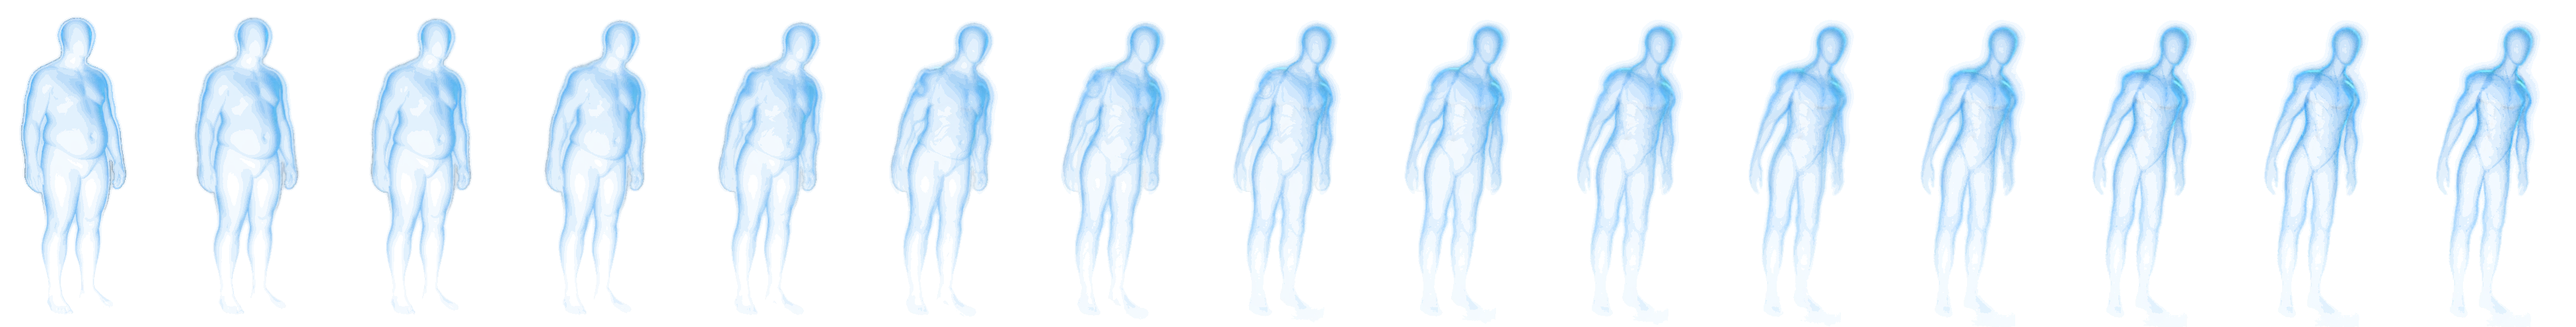
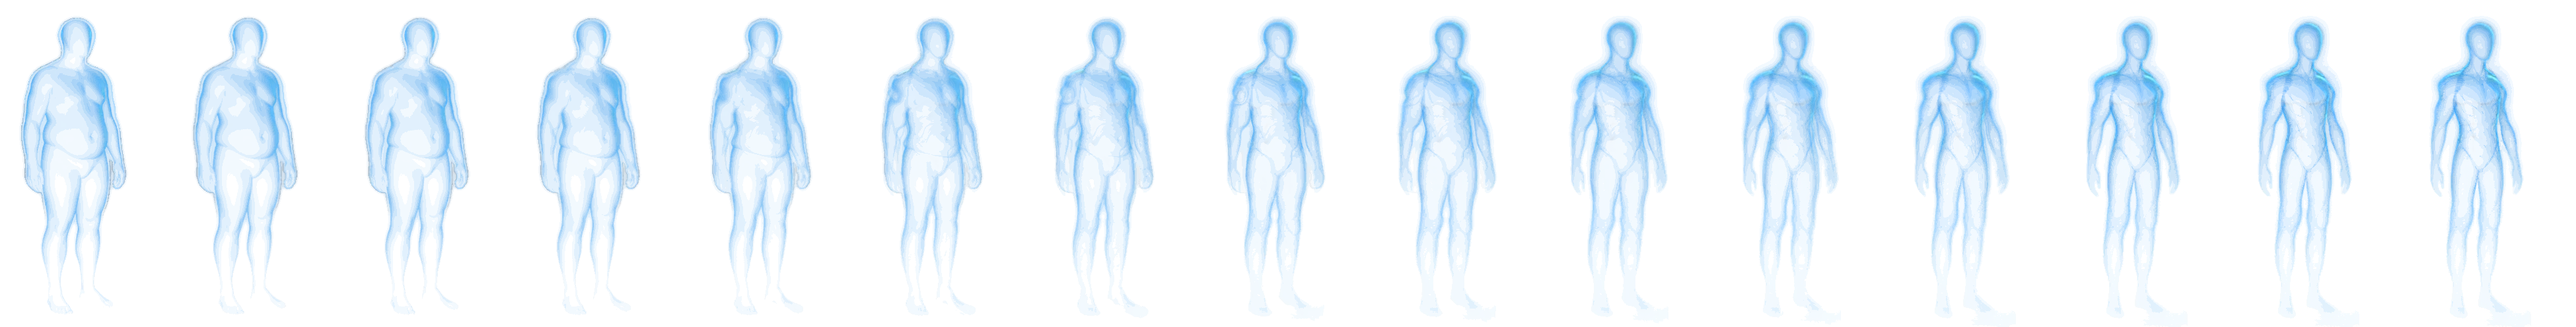
Hero F2 (Nick 1:49 CT): figure stands still and upright, no hip bend or foot tilt; slims only while stardust from the waist draws the line, which starts near his shoulder. Re-baked hero-fx-keys.webp (15 keys, 147 KB). Key v=7697

Changed region(s): [[0.0621, 0.0605, 0.9928, 0.7863]]

diff --git a/.vercel/output/static/simulator/assets/hero-fx.js b/.vercel/output/static/simulator/assets/hero-fx.js
@@ -1,4 +1,4 @@
-/* Theosis hero FX F1 (v7.6.76, simulator first screen; toggle with HERO_ANIM in index.html): heavier man (soft belly, wide waist) leans in toward the trend graph and slims to a lean, defined build while stardust off his waist draws the line. 15 baked keyframes (hero-fx-keys.webp, 260x496 each, art rows 72-568), crossfaded; lean/bend baked in. Plays once, then holds the last frame. 480x640 art space. */
+/* Theosis hero FX F1 (v7.6.76, simulator first screen; toggle with HERO_ANIM in index.html): heavier man (soft belly, wide waist) stands still and upright (F2, Nick 10/23: no bend or lean) and slims to a lean, defined build while stardust off his waist draws the line. 15 baked keyframes (hero-fx-keys.webp, 260x496 each, art rows 72-568), crossfaded; upright, no lean. Plays once, then holds the last frame. 480x640 art space. */
 (function(){
 var fig=document.querySelector('.hero-fig')||document.getElementById('fxhost');if(!fig)return;
 var img=fig.querySelector('img');fig.style.position='relative';
@@ -7,7 +7,7 @@ var x=c.getContext('2d'),mob=Math.min(screen.width,screen.height)<600,dpr=Math.m
 function fit(){var r=img.getBoundingClientRect(),f=fig.getBoundingClientRect(),W=r.width,H=r.height;
 c.style.left=(r.left-f.left)+'px';c.style.top=(r.top-f.top)+'px';c.style.width=W+'px';c.style.height=H+'px';
 c.width=Math.round(W*dpr);c.height=Math.round(H*dpr);x.setTransform(dpr*W/480,0,0,dpr*W/480,0,0);x.imageSmoothingEnabled=true;}
-var L=[[205,240],[262,278],[298,307],[337,334],[377,360],[413,381],[450,399]];
+var L=[[180,206],[262,278],[298,307],[337,334],[377,360],[413,381],[450,399]];
 function rnd(s){s=Math.sin(s*127.1)*43758.5453;return s-Math.floor(s);}
 function sm(t){t=t<0?0:t>1?1:t;return t*t*(3-2*t);}
 function eio(t){t=t<0?0:t>1?1:t;return t<.5?4*t*t*t:1-Math.pow(-2*t+2,3)/2;}
@@ -36,8 +36,8 @@ function figc(e){var k=Math.max(0,Math.min(KF-1,e*(KF-1))),a=Math.floor(k),f=k-a
  fx2.globalCompositeOperation='lighter';fx2.globalAlpha=f;fx2.drawImage(SO,b*KW,0,KW,KH,0,0,KW,KH);
  fx2.globalCompositeOperation='source-over';fx2.globalAlpha=1;x.drawImage(FC,0,KY);}
 /* same lean as the baked frames (bend at the hips + slight tilt from the feet), so the stardust leaves from the body, not the air */
-function lr(e){return sm(e/.32);}
-function lean(px,py,e){var r=lr(e),tl=2.5*r*Math.PI/180,a=11*r*Math.PI/180*sm((338+25-py)/90),dx=px-112,dy=py-338;
+function lr(e){return 0;}   /* F2: upright, no lean */
+function lean(px,py,e){if(!lr(e))return[px,py];var r=lr(e),tl=2.5*r*Math.PI/180,a=11*r*Math.PI/180*sm((338+25-py)/90),dx=px-112,dy=py-338;
  var X=112+dx*Math.cos(a)-dy*Math.sin(a),Y=338+dx*Math.sin(a)+dy*Math.cos(a);dx=X-110;dy=Y-548;
  return[110+dx*Math.cos(tl)-dy*Math.sin(tl),548+dx*Math.sin(tl)+dy*Math.cos(tl)];}
 var EW=[],ET=0;for(var i=0;i<ED.length;i++){ET+=Math.abs(ED[i][2]);EW.push(ET);}

diff --git a/public/simulator/assets/hero-fx.js b/public/simulator/assets/hero-fx.js
@@ -1,4 +1,4 @@
-/* Theosis hero FX F1 (v7.6.76, simulator first screen; toggle with HERO_ANIM in index.html): heavier man (soft belly, wide waist) leans in toward the trend graph and slims to a lean, defined build while stardust off his waist draws the line. 15 baked keyframes (hero-fx-keys.webp, 260x496 each, art rows 72-568), crossfaded; lean/bend baked in. Plays once, then holds the last frame. 480x640 art space. */
+/* Theosis hero FX F1 (v7.6.76, simulator first screen; toggle with HERO_ANIM in index.html): heavier man (soft belly, wide waist) stands still and upright (F2, Nick 10/23: no bend or lean) and slims to a lean, defined build while stardust off his waist draws the line. 15 baked keyframes (hero-fx-keys.webp, 260x496 each, art rows 72-568), crossfaded; upright, no lean. Plays once, then holds the last frame. 480x640 art space. */
 (function(){
 var fig=document.querySelector('.hero-fig')||document.getElementById('fxhost');if(!fig)return;
 var img=fig.querySelector('img');fig.style.position='relative';
@@ -7,7 +7,7 @@ var x=c.getContext('2d'),mob=Math.min(screen.width,screen.height)<600,dpr=Math.m
 function fit(){var r=img.getBoundingClientRect(),f=fig.getBoundingClientRect(),W=r.width,H=r.height;
 c.style.left=(r.left-f.left)+'px';c.style.top=(r.top-f.top)+'px';c.style.width=W+'px';c.style.height=H+'px';
 c.width=Math.round(W*dpr);c.height=Math.round(H*dpr);x.setTransform(dpr*W/480,0,0,dpr*W/480,0,0);x.imageSmoothingEnabled=true;}
-var L=[[205,240],[262,278],[298,307],[337,334],[377,360],[413,381],[450,399]];
+var L=[[180,206],[262,278],[298,307],[337,334],[377,360],[413,381],[450,399]];
 function rnd(s){s=Math.sin(s*127.1)*43758.5453;return s-Math.floor(s);}
 function sm(t){t=t<0?0:t>1?1:t;return t*t*(3-2*t);}
 function eio(t){t=t<0?0:t>1?1:t;return t<.5?4*t*t*t:1-Math.pow(-2*t+2,3)/2;}
@@ -36,8 +36,8 @@ function figc(e){var k=Math.max(0,Math.min(KF-1,e*(KF-1))),a=Math.floor(k),f=k-a
  fx2.globalCompositeOperation='lighter';fx2.globalAlpha=f;fx2.drawImage(SO,b*KW,0,KW,KH,0,0,KW,KH);
  fx2.globalCompositeOperation='source-over';fx2.globalAlpha=1;x.drawImage(FC,0,KY);}
 /* same lean as the baked frames (bend at the hips + slight tilt from the feet), so the stardust leaves from the body, not the air */
-function lr(e){return sm(e/.32);}
-function lean(px,py,e){var r=lr(e),tl=2.5*r*Math.PI/180,a=11*r*Math.PI/180*sm((338+25-py)/90),dx=px-112,dy=py-338;
+function lr(e){return 0;}   /* F2: upright, no lean */
+function lean(px,py,e){if(!lr(e))return[px,py];var r=lr(e),tl=2.5*r*Math.PI/180,a=11*r*Math.PI/180*sm((338+25-py)/90),dx=px-112,dy=py-338;
  var X=112+dx*Math.cos(a)-dy*Math.sin(a),Y=338+dx*Math.sin(a)+dy*Math.cos(a);dx=X-110;dy=Y-548;
  return[110+dx*Math.cos(tl)-dy*Math.sin(tl),548+dx*Math.sin(tl)+dy*Math.cos(tl)];}
 var EW=[],ET=0;for(var i=0;i<ED.length;i++){ET+=Math.abs(ED[i][2]);EW.push(ET);}
